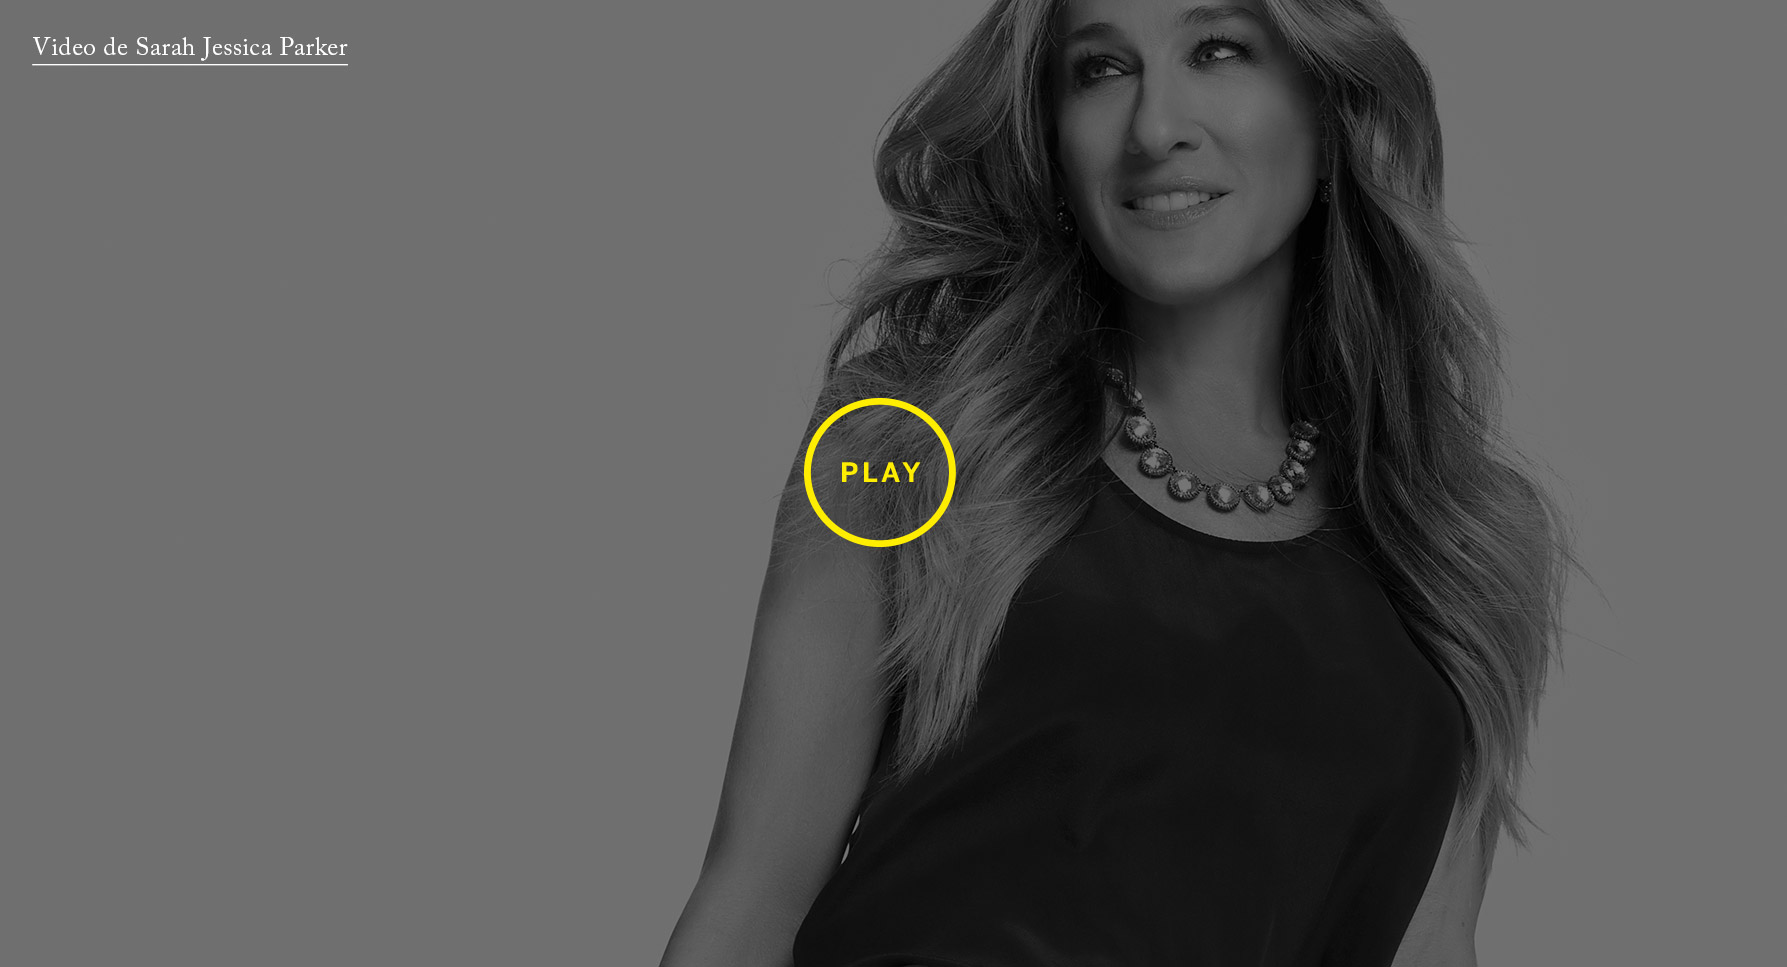
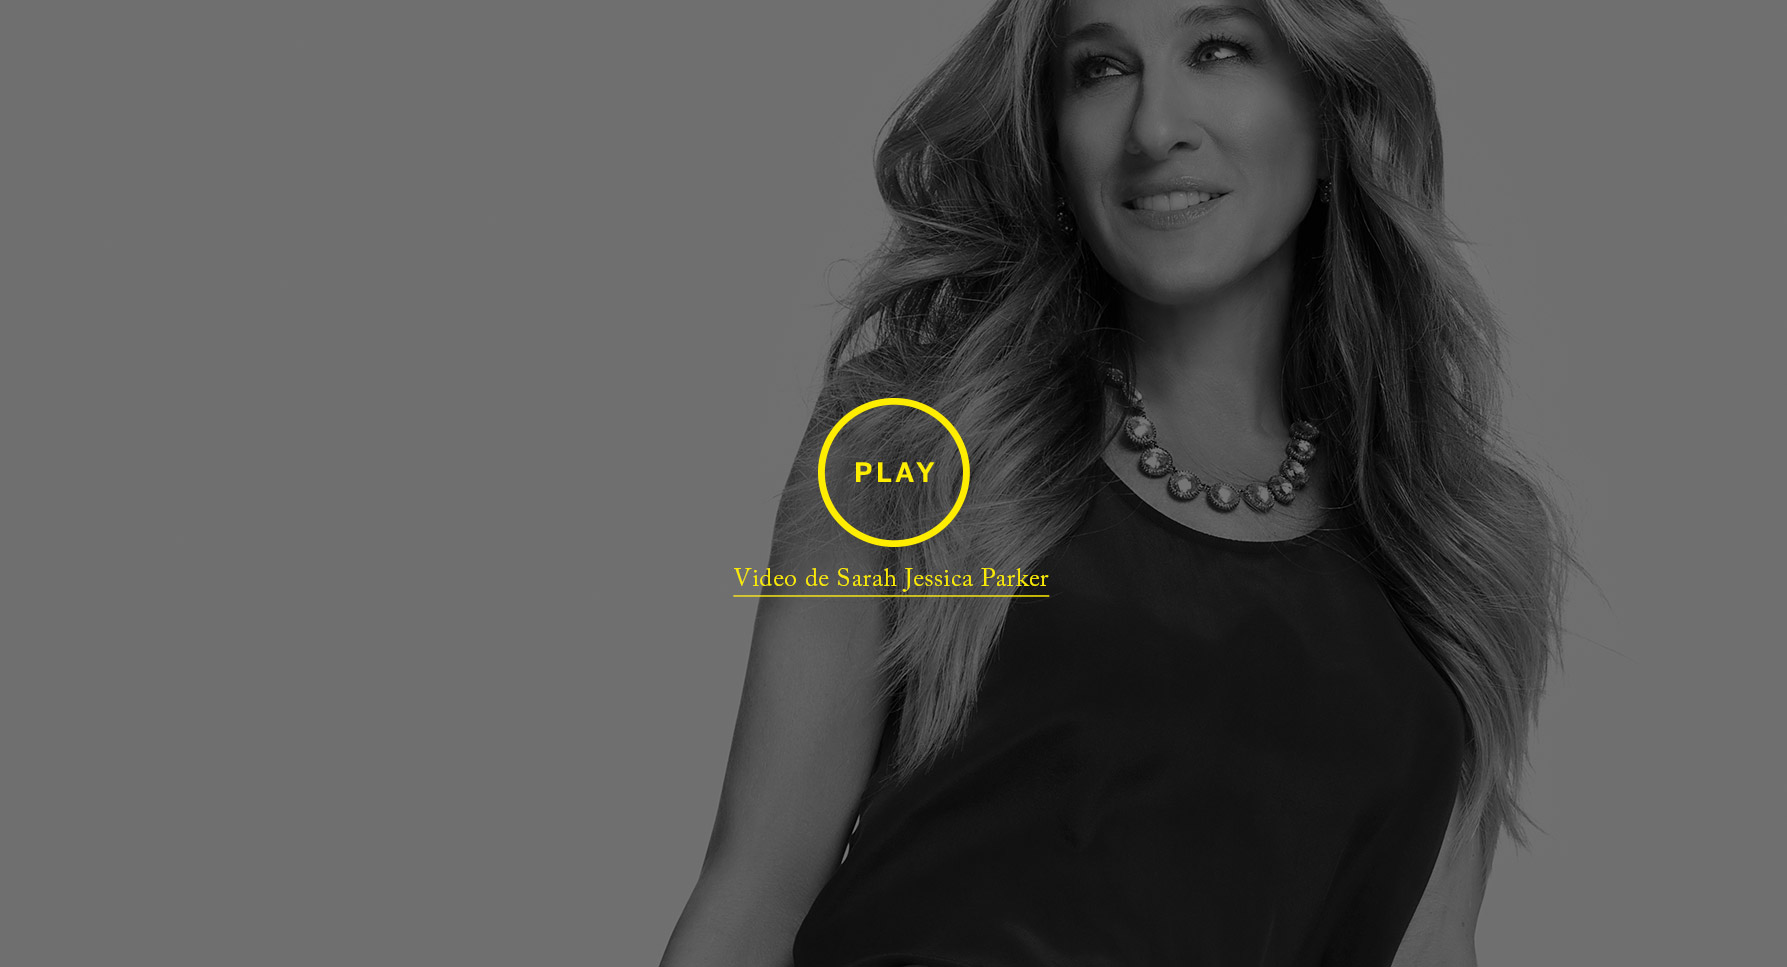
ajustes/cambios en vista sjp

Changed region(s): [[0.4309, 0.4033, 0.554, 0.5584], [0.4001, 0.5895, 0.5848, 0.6205], [0.0308, 0.031, 0.1847, 0.062]]

diff --git a/js/jquery.smooth-scroll.min.js b/js/jquery.smooth-scroll.min.js
@@ -1,0 +1,7 @@
+/*!
+ * jQuery Smooth Scroll - v1.5.5 - 2015-02-19
+ * https://github.com/kswedberg/jquery-smooth-scroll
+ * Copyright (c) 2015 Karl Swedberg
+ * Licensed MIT (https://github.com/kswedberg/jquery-smooth-scroll/blob/master/LICENSE-MIT)
+ */
+(function(t){"function"==typeof define&&define.amd?define(["jquery"],t):"object"==typeof module&&module.exports?t(require("jquery")):t(jQuery)})(function(t){function e(t){return t.replace(/(:|\.|\/)/g,"\\$1")}var l="1.5.5",o={},n={exclude:[],excludeWithin:[],offset:0,direction:"top",scrollElement:null,scrollTarget:null,beforeScroll:function(){},afterScroll:function(){},easing:"swing",speed:400,autoCoefficient:2,preventDefault:!0},s=function(e){var l=[],o=!1,n=e.dir&&"left"===e.dir?"scrollLeft":"scrollTop";return this.each(function(){if(this!==document&&this!==window){var e=t(this);e[n]()>0?l.push(this):(e[n](1),o=e[n]()>0,o&&l.push(this),e[n](0))}}),l.length||this.each(function(){"BODY"===this.nodeName&&(l=[this])}),"first"===e.el&&l.length>1&&(l=[l[0]]),l};t.fn.extend({scrollable:function(t){var e=s.call(this,{dir:t});return this.pushStack(e)},firstScrollable:function(t){var e=s.call(this,{el:"first",dir:t});return this.pushStack(e)},smoothScroll:function(l,o){if(l=l||{},"options"===l)return o?this.each(function(){var e=t(this),l=t.extend(e.data("ssOpts")||{},o);t(this).data("ssOpts",l)}):this.first().data("ssOpts");var n=t.extend({},t.fn.smoothScroll.defaults,l),s=t.smoothScroll.filterPath(location.pathname);return this.unbind("click.smoothscroll").bind("click.smoothscroll",function(l){var o=this,r=t(this),i=t.extend({},n,r.data("ssOpts")||{}),c=n.exclude,a=i.excludeWithin,f=0,h=0,u=!0,d={},p=location.hostname===o.hostname||!o.hostname,m=i.scrollTarget||t.smoothScroll.filterPath(o.pathname)===s,S=e(o.hash);if(i.scrollTarget||p&&m&&S){for(;u&&c.length>f;)r.is(e(c[f++]))&&(u=!1);for(;u&&a.length>h;)r.closest(a[h++]).length&&(u=!1)}else u=!1;u&&(i.preventDefault&&l.preventDefault(),t.extend(d,i,{scrollTarget:i.scrollTarget||S,link:o}),t.smoothScroll(d))}),this}}),t.smoothScroll=function(e,l){if("options"===e&&"object"==typeof l)return t.extend(o,l);var n,s,r,i,c,a=0,f="offset",h="scrollTop",u={},d={};"number"==typeof e?(n=t.extend({link:null},t.fn.smoothScroll.defaults,o),r=e):(n=t.extend({link:null},t.fn.smoothScroll.defaults,e||{},o),n.scrollElement&&(f="position","static"===n.scrollElement.css("position")&&n.scrollElement.css("position","relative"))),h="left"===n.direction?"scrollLeft":h,n.scrollElement?(s=n.scrollElement,/^(?:HTML|BODY)$/.test(s[0].nodeName)||(a=s[h]())):s=t("html, body").firstScrollable(n.direction),n.beforeScroll.call(s,n),r="number"==typeof e?e:l||t(n.scrollTarget)[f]()&&t(n.scrollTarget)[f]()[n.direction]||0,u[h]=r+a+n.offset,i=n.speed,"auto"===i&&(c=u[h]-s.scrollTop(),0>c&&(c*=-1),i=c/n.autoCoefficient),d={duration:i,easing:n.easing,complete:function(){n.afterScroll.call(n.link,n)}},n.step&&(d.step=n.step),s.length?s.stop().animate(u,d):n.afterScroll.call(n.link,n)},t.smoothScroll.version=l,t.smoothScroll.filterPath=function(t){return t=t||"",t.replace(/^\//,"").replace(/(?:index|default).[a-zA-Z]{3,4}$/,"").replace(/\/$/,"")},t.fn.smoothScroll.defaults=n});

diff --git a/css/styles.css b/css/styles.css
@@ -183,6 +183,22 @@ footer a{
 	position: relative;
 	color: #000100;
 }
+#sarah .bajar {
+	position:absolute;
+	width:49px;
+	height:40px;
+	left:50%;
+	margin-left:-24px;
+	bottom:8%;
+	z-index:20
+}
+#sarah .row.contenedor {
+	position:absolute;
+	width:100%;
+	height:100%;
+	left:0;
+	top:0
+}
 #sarah .content-c{
 	display: table-cell;
 	vertical-align: middle;
@@ -226,7 +242,9 @@ footer a{
 	width: 100%;
 }
 .compartir-sarah{
-	margin: 8% 0 0 0;
+	bottom:14%;
+    position:absolute;
+    width:100%;
 }
 .compartir{
 	margin-right: 10px;

diff --git a/js/funciones.js b/js/funciones.js
@@ -62,6 +62,7 @@ function redimensionar() {
 
 $(document).ready(function () {
 
+	$('a').smoothScroll();
 
 	// Inject YouTube API script
 	var tag = document.createElement('script');

diff --git a/app/views/desktop/sarah.blade.php b/app/views/desktop/sarah.blade.php
@@ -1,32 +1,30 @@
 @extends('layouts.desktop')
 @section('content')
 <div id="sarah">
-	<img src="{{url()}}/img/sarah/1.jpg" class="img-responsive" alt="Sarah Jessica Parker" />
-	<div class="content-a">
-		<div class="content-b">
-			<div class="content-c">
-				<div class="row">
-					<div class="col-sm-5 col-sm-offset-6 text-center">
-						<img src="{{url()}}/img/sarah/titulo.png" class="img-responsive titulo" alt="" />
-						<span class="nueva-imagen">NUEVA IMAGEN DE RIPLEY</span>
-						<p>
-							Actriz, modelo, editora de moda... es todo lo que conocemos de ella. Pero ahora, Sarah Jessica llega a Ripley para mostrarnos su lado más cercano y enseñarnos todo lo que sabe sobre su pasíón: La Moda.
-						</p>
-						<span class="medium">#bienvenida</span><span>SJP</span>
-						<div class="compartir-sarah">
-							<img src="{{url()}}/img/sarah/compartelo.png"  alt="Compartir" class="compartir" />
-							<a href="https://www.facebook.com/sharer/sharer.php?u=http://modaripley.com/tendencias/sjp" target="_blank"><img src="{{url()}}/img/facebook.png" alt="facebook" /></a>
-							<a href="https://twitter.com/home?status=Sarah%20Jessica%20Parker%20nos%20muestra%20su%20lado%20mas%20cercano%20y%20nosense%C3%B1a%20todo%20lo%20que%20sabe%20sobre%20su%20pasi%C3%B3n:%20La%20Moda.%20Ingresa%20a%20http://bit.ly/1NlXVaP" target="_blank"><img src="{{url()}}/img/twitter.png" alt="twitter" /></a>
-							<a href="https://pinterest.com/pin/create/button/?url=http://modaripley.com/tendencias/sjp&media=http://modaripley.com/tendencias/img/sarah/1.jpg&description=" target="_blank"><img src="{{url()}}/img/pinterest.png" alt="pinterest" /></a>
-							<a href="https://plus.google.com/share?url=http://modaripley.com/tendencias/sjp" target="_blank"><img src="{{url()}}/img/google.png" alt="google plus" /></a>
-						</div>
+	<img src="{{url()}}/img/sarah/1.jpg" class="img-responsive center-block" alt="Sarah Jessica Parker" />
+	<a href="#sjpVideo" class="bajar">
+		<img src="{{url()}}/img/bajar.png" class="img-responsive center-block" alt="" />
+	</a>
+	<div class="row contenedor">
+		<div class="col-sm-6 col-sm-offset-6" style="height:100%">
+			<p>
+				&nbsp;
+			</p>
+			<div class="row" style="height:100%">
+				<div class="col-sm-10" style="height:100%">
+					<div class="compartir-sarah text-center">
+						<img src="{{url()}}/img/sarah/compartelo.png"  alt="Compartir" class="compartir" />
+						<a href="https://www.facebook.com/sharer/sharer.php?u=http://modaripley.com/tendencias/sjp" target="_blank"><img src="{{url()}}/img/facebook.png" alt="facebook" /></a>
+						<a href="https://twitter.com/home?status=Sarah%20Jessica%20Parker%20nos%20muestra%20su%20lado%20mas%20cercano%20y%20nosense%C3%B1a%20todo%20lo%20que%20sabe%20sobre%20su%20pasi%C3%B3n:%20La%20Moda.%20Ingresa%20a%20http://bit.ly/1NlXVaP" target="_blank"><img src="{{url()}}/img/twitter.png" alt="twitter" /></a>
+						<a href="https://pinterest.com/pin/create/button/?url=http://modaripley.com/tendencias/sjp&media=http://modaripley.com/tendencias/img/sarah/1.jpg&description=" target="_blank"><img src="{{url()}}/img/pinterest.png" alt="pinterest" /></a>
+						<a href="https://plus.google.com/share?url=http://modaripley.com/tendencias/sjp" target="_blank"><img src="{{url()}}/img/google.png" alt="google plus" /></a>
 					</div>
 				</div>
 			</div>
 		</div>
 	</div>
 </div>
-<div class="video-contenedor">
+<div id="sjpVideo" class="video-contenedor">
 	<a class="play" href="#" style="background-image:url('{{url()}}/img/sarah/2.jpg')" id="sarah-1"></a>
 	<div class="embed-responsive embed-responsive-16by9">
 		<iframe class="embed-responsive-item" src="//www.youtube.com/embed/crKUcZio0-M?rel=0&enablejsapi=1" id="video-1"></iframe>

diff --git a/app/views/layouts/desktop.blade.php b/app/views/layouts/desktop.blade.php
@@ -90,6 +90,7 @@ if (!isset($itemactive))
 		<script src="{{url()}}/js/jquery.bxslider.js"></script>
 		<script src="{{url()}}/js/jquery.fancybox.js"></script>
 		<script src="{{url()}}/js/jquery.rwdImageMaps.min.js"></script>
+		<script src="{{url()}}/js/jquery.smooth-scroll.min.js"></script>
 		<script src="{{url()}}/js/funciones.js"></script>
 		@if(Route::current()->getName() == 'marcas' or Route::current()->getName() == 'lookbook')
 		<script>
